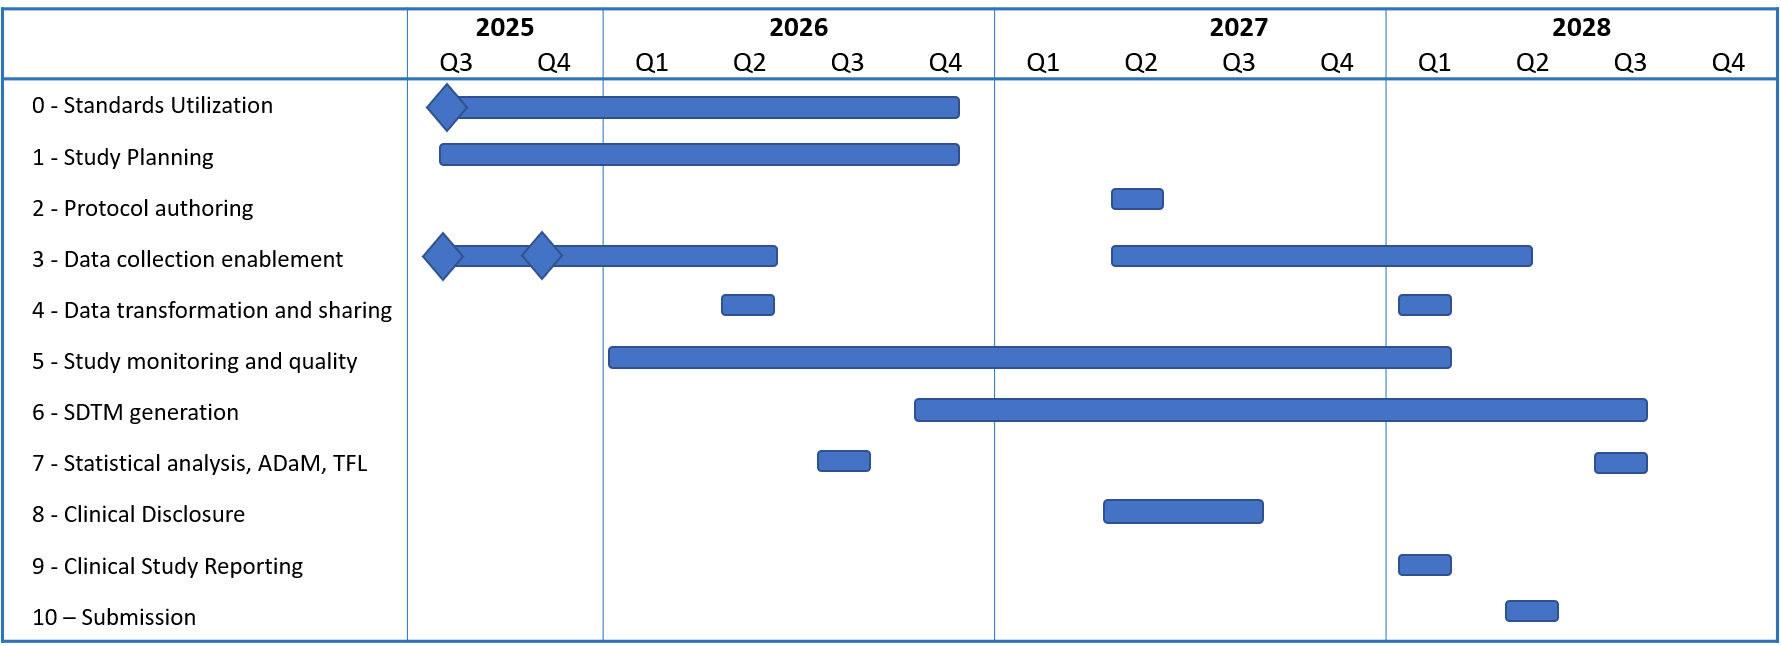
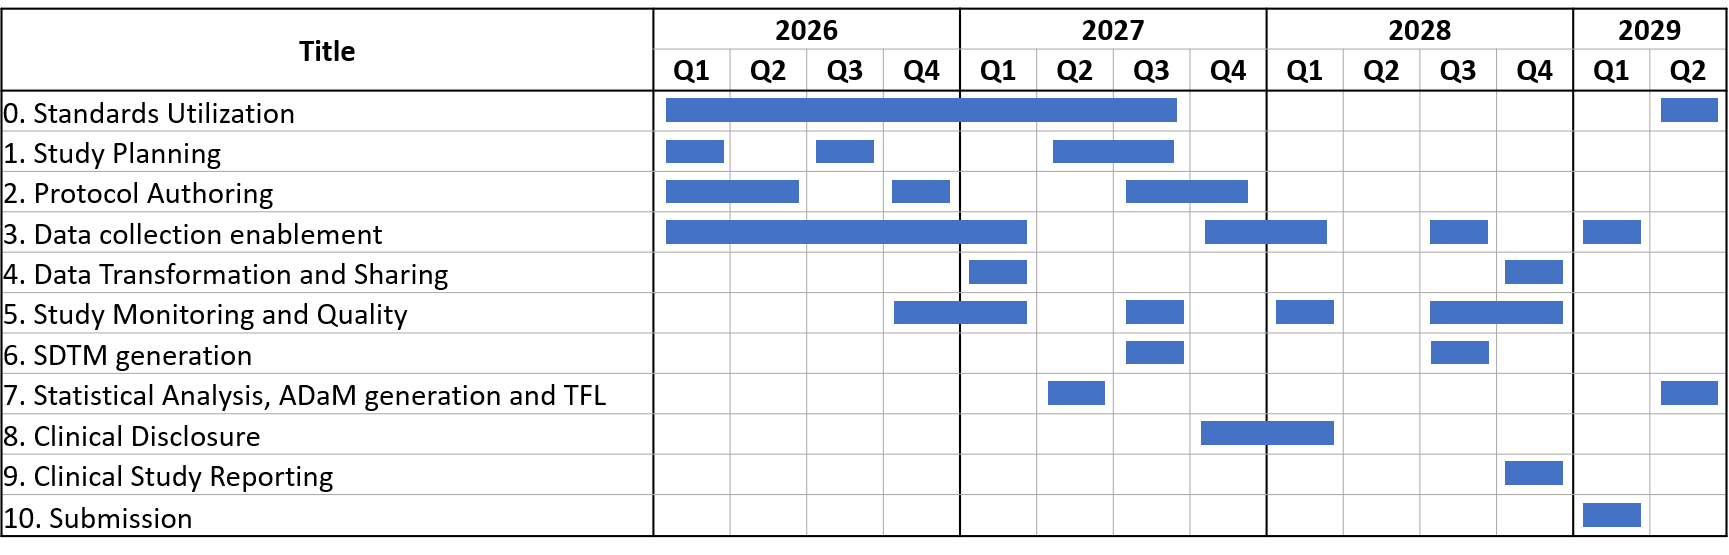
update newsletter, update scope/direction
include latest roadmap updates for scope/direction

diff --git a/docs/info_scope_direction.md b/docs/info_scope_direction.md
@@ -1,4 +1,7 @@
-# Scope & Direction of the Project
+# Scope & Direction of the Project {: class="guideH1"}
+
+(updated 2026-01-26) 
+{: class="guideCreated"}
 
 ## Our Road Ahead - The Vision
 
@@ -22,11 +25,30 @@ The business processes supported by this vision span the full trial road - from 
 
 As all of these processes depend on standards, a crucial element on the consumption side is standards utilization. This is what enables interoperability between tools and ensures consistency throughout the trial setup and execution.
 
+## Key Achievements at Novo Nordisk in 2025
+
+Several milestones made 2025 a transformational year for OpenStudyBuilder in Novo Nordisk:
+
+- OpenStudyBuilder is recognized as one of the prioritized digital products across R&amp;D.
+- The first code contribution from an external pharmaceutical company (many thanks to Boehringer Ingelheim) was successfully accomplished, demonstrating the strong and growing industry interest in OpenStudyBuilder as an open-source solution.
+- Schedules of Activities are now specified for all kind of studies in OpenStudyBuilder.
+- CRF standards, including SDTM annotations, are available within OpenStudyBuilder.
+- Working prototype to synchronize OpenStudyBuilder and EDC utilizing the available EDC API.
+- A laboratory metadata report based on OSB metadata has been introduced to support the creation of laboratory data specifications.
+- We added USDM and M11 pages, now available for every study. This enhancement positions OpenStudyBuilder to support emerging industry standards and future regulatory requirements. 
+- Support for complexity score calculation has been implemented.
+- Multiple system enhancements driven by end-user feedback were delivered.
+- The internal name was changed from "StudyBuilder" to "OpenStudyBuilder" to emphasize the open-source nature of the solution and its growing industry relevance.
+- The system performance has been improved significantly.
+- OpenStudyBuilder continues to grow, with close to 300 registered users at Novo Nordisk.
+
 ## Where Do We Stand Now
 
-OpenStudyBuilder is already delivering tangible value in the area of protocol authoring. At Novo Nordisk, it is used in production to define structured protocol elements - most notably the Schedule of Activities (SoA) - and automatically populate them into the corresponding Word-based protocol template. 
+OpenStudyBuilder is already delivering tangible value in the area of protocol authoring. At Novo Nordisk, it is used in production to define structured protocol elements - most notably the Schedule of Activities (SoA) - and automatically populate them into the corresponding Word-based protocol template for all studies.
 
-Initially, Phase 1 studies were out of scope due to the complexity of their SoA designs. However, with the recent implementation of functionality supporting study sub-parts and multiple SoAs, we are now preparing for the onboarding of Phase 1 protocols as well.
+Looking back at 2025, OpenStudyBuilder has significantly matured structured protocol content management. We established and expanded core capabilities around Schedules of Activities. Furthermore, we successfully prepared and loaded CRF standards into the solution. These foundations lay the groundwork for the next major milestone on our journey: EDC automation.
+
+We have also seen that the contribution model is working. But to truly enable broad industry adoption and sustainable collaboration, we must go further. Important work is already in progress and there will be much more to share throughout 2026. We strongly believe that 2026 will become the year of industry adoption for OpenStudyBuilder.
 
 ![OpenStudyBuilder - Current live business processes](./img/info_scope_direction_2.png)
 {: class="imageParagraph"}
@@ -34,29 +56,63 @@ Initially, Phase 1 studies were out of scope due to the complexity of their SoA 
 Figure 2: Current live business processes
 {: class="imageDescription"}
 
-In parallel with supporting protocol authoring, the project has placed strong emphasis on enabling standards utilization for downstream systems and laying the groundwork for data collection automation - two areas that are set to become key focal points in the near future.
+Our solution is prepared to support additional business processes beyond protocol authoring. We are expecting the Standards Utilization and Data Collection Enablement be go into production in 2026.
 
 ## Where to Go Next
 
-For the remainder of 2025, the project will focus on two strategic priorities: enabling standards utilization and advancing data collection automation. In parallel, we will work on supporting study planning activities, though with a more limited scope compared to the primary focus areas.
+We will continue to enhance the management and maintenance of related standards across OpenStudyBuilder. This includes controlled terminology, CRF standards, biomedical concepts expressed as activities, sponsor-specific SDTM and ADaM data models, protocol-related standards such as structured and standardized criteria and more. In parallel, we will further strengthen capabilities supporting study planning and early study design.
 
-The first priority is to make structured metadata broadly accessible to downstream systems in a version-controlled, consolidated, and harmonized manner. A key milestone here is the enablement of some missing functionalities as metadata repository, which is expected to go into production and replace a legacy tool.
+A major focus for 2026 will be the enablement of data collection - specifically advancing EDC automation. Throughout 2025, we refined CRF standards management, and at Novo Nordisk all CRF standards are now loaded into OpenStudyBuilder. Building on this foundation, 2026 is expected to bring an implemented specific EDC integration. It is important to note that Oracle ClinicalOne is already integrated in production, and additional EDC systems supporting the ODM standard are also supported.
 
-The second focus area is enhancing our support for data collection. This includes refining CRF design capabilities, strengthening the integration of Biomedical Concepts, and advancing automation features that support EDC setup.
-
-While OpenStudyBuilder is not intended to execute all of these processes directly, it will serve as a central hub that enables them. To support this role, the underlying data model, standards content, and API infrastructure must be in place and aligned.
-
-![OpenStudyBuilder - Roadmap Timeline](./img/info_scope_direction_3.png)
+Another important shift in 2026 will be an additional focus on protocol authoring support, an area that had not previously been prioritized. In addition, we plan to start addressing selected study monitoring processes toward the end of the year.
+ 
+![OpenStudyBuilder - Current OpenStudyBuilder Roadmap by Business Process](./img/info_scope_direction_3.png)
 {: class="imageParagraph"}
 
-Figure 3: Rough Roadmap Timeline
+Figure 3: Current OpenStudyBuilder Roadmap by Business Process
 {: class="imageDescription"}
 
-Looking ahead to 2026 and beyond, we plan to expand support across additional business processes. The roadmap provides a high-level view of when these areas may be addressed, with flexibility to adjust as priorities evolve. Once standards utilization is fully in place, processes such as SDTM generation, ADaM workflows, and TFL production can be supported more effectively, given their existing reliance on structured metadata. Beyond metadata utilization we focus on now, we identified additional requirements in those areas, which are scheduled for 2026 and beyond.
+Looking further ahead, a high-level roadmap for 2027 and beyond has been defined. This is based on a value framework which investigated which downstream processes could and should be supported by OpenStudyBuilder, considering prerequisites and existing workflows. The future focus areas include support for SDTM, ADaM, and TLF generation, as well as processes around clinical disclosure, study reporting, and submission.
+
+Naturally, the further we look into the future, the more likely shifts will occur. At the same time, it is important to note that some later processes can already benefit from today's OpenStudyBuilder capabilities. For example, ADaM-relevant inputs such as visit structures, endpoints, and activity flows are already available within OpenStudyBuilder and can be leveraged. Furthermore, as industry standards continue to evolve, working with analysis results metadata and even analysis concepts may increasingly come into play and shape future directions.
+
+## Next Steps for 2026
+
+Many community members have expressed interest in more detailed insights into what is planned next. The roadmap below highlights selected focus areas and concrete directions aligned with the targeted business processes. In parallel, we will continue to deliver technical and general improvements across the solution. A major cross-cutting focus for 2026 is performance, which will be systematically analysed and optimized in OpenStudyBuilder.
+ 
+![OpenStudyBuilder - OpenStudyBuilder Roadmap for 2026](./img/info_scope_direction_5.png)
+{: class="imageParagraph"}
+
+Figure 4: OpenStudyBuilder Roadmap for 2026
+{: class="imageDescription"}
+
+Standards utilization continues to define the base rules for OpenStudyBuilder. Much is already in place, and a significant additional amount of work is planned for 2026. We will further enhance the Schedule of Activities to better support data specifications, strengthen activity linkages and data provision, and connecting controlled terminology.
+
+Planned work includes investigating support for multiple sponsor data models, making controlled terminology directly available for SDTM generation, and extending activity definitions across findings, interventions, events, and remaining classes. We also plan to enhance the study design structure, further develop compounds and interventions.
+
+The existing study planning features will be extended with new export and integration capabilities to support a quality management solution. This will begin with a minimal information set and will be expanded over time to include additional planning-relevant data, enabling broader downstream usage.
+
+Another important focus for 2026 is protocol authoring. We plan to enable OpenStudyBuilder to provide structured content for several protocol sections, including:
+
+- Clinical Laboratory Tests (Appendix 2)
+- Objectives
+- Endpoints and Estimand(s)
+- Criteria
+- Interventions
+
+In addition, we plan to support the export of pharmacokinetic tables for protocol inclusion.
+
+We plan to improve the USDM, with much more information directly coming from the metadata defined in the OpenStudyBuilder. At the same time, the ICH M11 Template will be updated to the latest Final version, the [ICH CeSHarP M11 template from 19 November 2025](https://database.ich.org/sites/default/files/ICH_Step4_M11_Final_Template_2025_1119.pdf){target=_blank}.
+
+Data collection enablement remains a central pillar, with a strong focus on automated study build in EDC systems. Planned work includes further strengthening the linkage between activity instances and CRF items, enhancing CRF library management, and supporting the creation of study-specific CRFs including annotations.
+
+We expand data specification support, including dedicated specifications for laboratory data, antibodies, and pharmacokinetics, further strengthening the bridge from protocol content to operational data collection.
+
+Towards the end of the year, we are looking into a proof of concept on how to include blinding information into OpenStudyBuilder linked in a Schedule of Activities.
 
 ## The Role of CDISC 360i
 
-The CDISC 360i project will play a central role in demonstrating how the end-to-end flow can function by showcasing the integration of tools and the complete data flow, all driven by industry standards for data and exchange. It brings together experts and tool developers to execute and evaluate the flow and drive improvements, aiming to implement the full process from study planning, through data collection, to SDTM and ADaM generation and beyond, leveraging tools and practices. OpenStudyBuilder will be one of the key solutions to support and showcase this collaborative, end-to-end automation.
+The [CDISC 360i](https://www.cdisc.org/cdisc-360i){target=_blank} project will play a central role in demonstrating how the end-to-end flow can function by showcasing the integration of tools and the complete data flow, all driven by industry standards for data and exchange. It brings together experts and tool developers to execute and evaluate the flow and drive improvements, aiming to implement the full process from study planning, through data collection, to SDTM and ADaM generation and beyond, leveraging tools and practices. OpenStudyBuilder will be one of the key solutions to support and showcase this collaborative, end-to-end automation.
  
 ![OpenStudyBuilder - CDISC 360i](./img/info_scope_direction_4.png)
 {: class="imageParagraph"}

diff --git a/docs/info_newsletter.md b/docs/info_newsletter.md
@@ -2,6 +2,10 @@
 
 The OpenStudyBuilder Newsletter is published monthly on [LinkedIn](https://www.linkedin.com/newsletters/openstudybuilder-6990328054849916928/){target=_blank}. 
 
+### R&eacute;sum&eacute;, Roadmap and Version 2.3
+
+<iframe src="https://www.linkedin.com/embed/feed/update/urn:li:ugcPost:7419759535999004672?collapsed=1" height="850" width="100%" frameborder="0" allowfullscreen="" title="Embedded post"></iframe>
+
 ### First Contribution, Release 2.2, Hidden Treasures, Deployments, DeepWiki
 
 <iframe src="https://www.linkedin.com/embed/feed/update/urn:li:ugcPost:7407719123947831296?collapsed=1" height="850" width="100%" frameborder="0" allowfullscreen="" title="Embedded post"></iframe>
